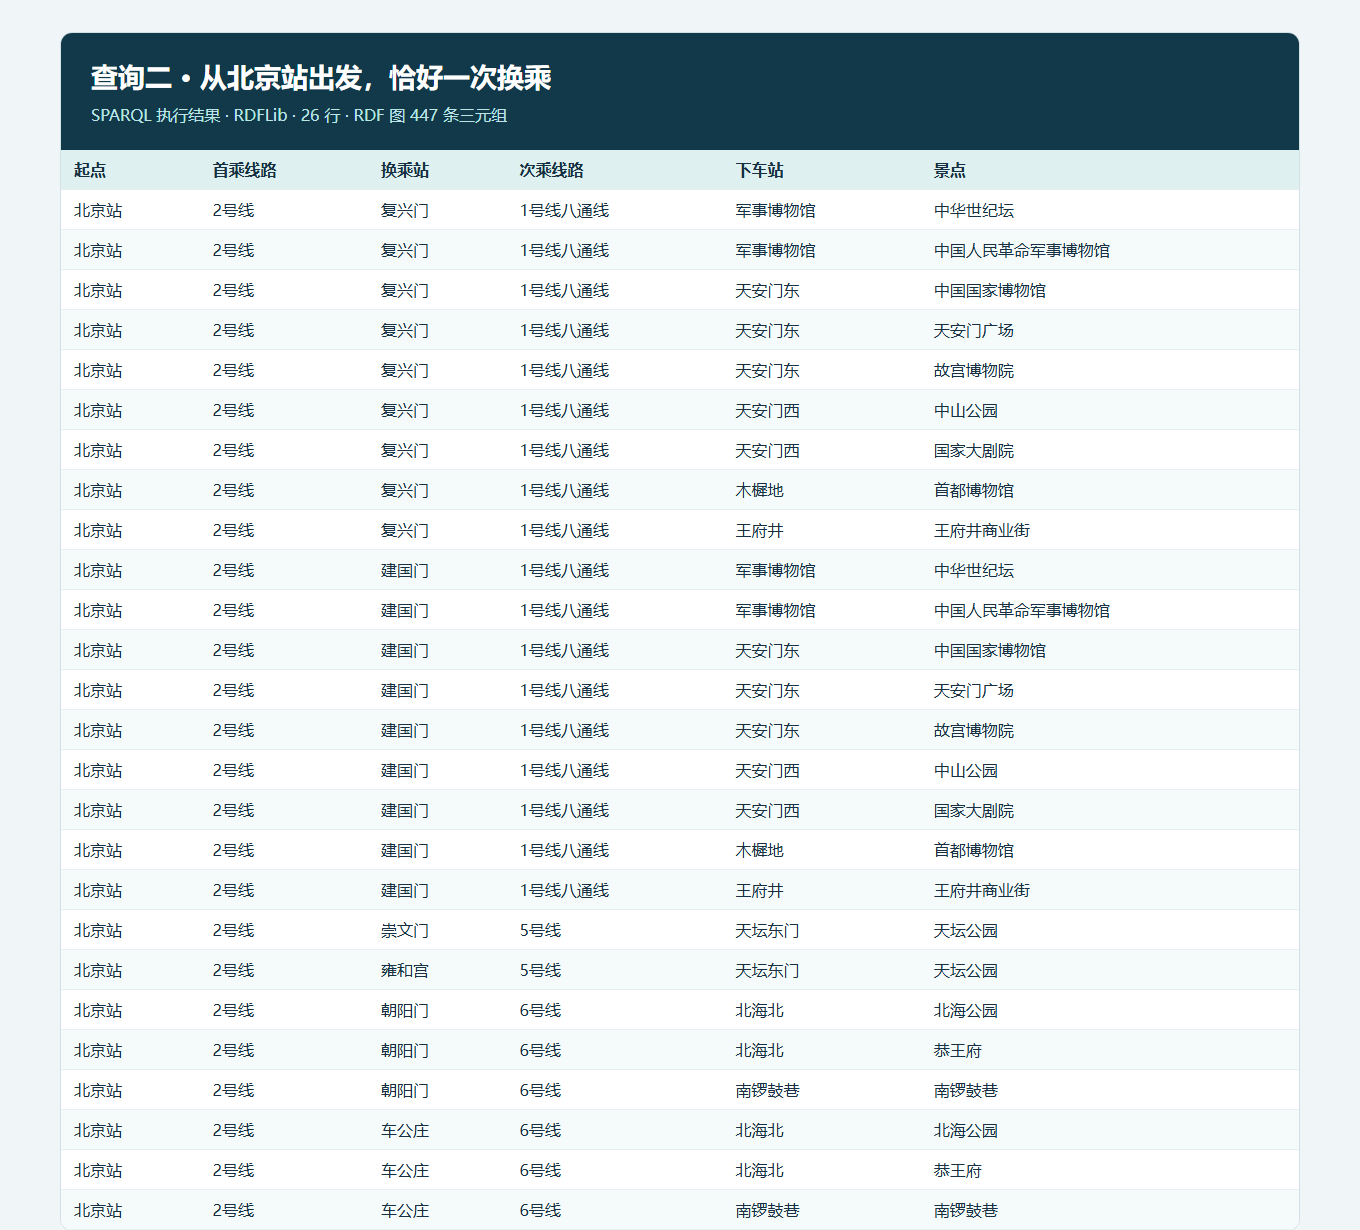
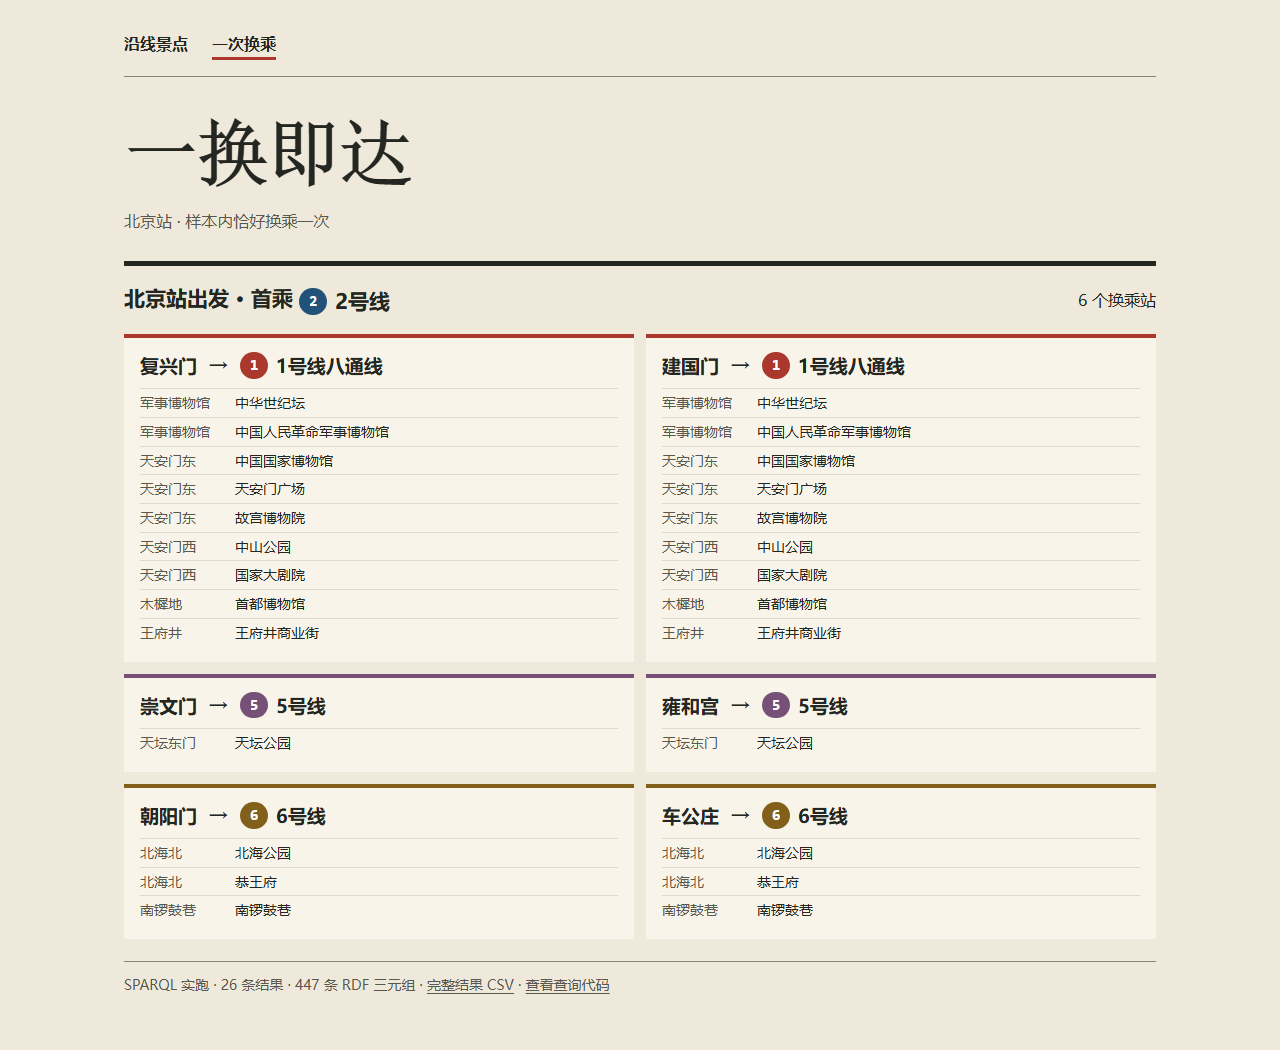
Restyle query results as subway wayfinding views

diff --git a/results/02-one-transfer.html b/results/02-one-transfer.html
@@ -1,14 +1,19 @@
-<!doctype html><html lang="zh-CN"><meta charset="utf-8">
-<title>查询二 · 从北京站出发，恰好一次换乘</title>
-<style>
-* {box-sizing:border-box} body {margin:0;background:#f0f5f7;color:#173043;
-font:16px 'Microsoft YaHei','Noto Sans SC',sans-serif}
-main {margin:32px auto;width:calc(100% - 80px);max-width:1240px;background:white;
-border:1px solid #d2e1e7;border-radius:12px;overflow:hidden}
-header {padding:25px 30px;background:#12394a;color:white} h1 {margin:0 0 10px;font-size:27px}
-header p {margin:0;color:#bce5e4} table {border-collapse:collapse;width:100%}
-th, td {padding:9px 13px;text-align:left;border-bottom:1px solid #e8eff1}
-th {background:#def0ef} tr:nth-child(even) {background:#f5fafb}
-</style><main><header><h1>查询二 · 从北京站出发，恰好一次换乘</h1><p>SPARQL 执行结果 · RDFLib ·
-26 行 · RDF 图 447 条三元组</p></header>
-<table><thead><tr><th>起点</th><th>首乘线路</th><th>换乘站</th><th>次乘线路</th><th>下车站</th><th>景点</th></tr></thead><tbody><tr><td>北京站</td><td>2号线</td><td>复兴门</td><td>1号线八通线</td><td>军事博物馆</td><td>中华世纪坛</td></tr><tr><td>北京站</td><td>2号线</td><td>复兴门</td><td>1号线八通线</td><td>军事博物馆</td><td>中国人民革命军事博物馆</td></tr><tr><td>北京站</td><td>2号线</td><td>复兴门</td><td>1号线八通线</td><td>天安门东</td><td>中国国家博物馆</td></tr><tr><td>北京站</td><td>2号线</td><td>复兴门</td><td>1号线八通线</td><td>天安门东</td><td>天安门广场</td></tr><tr><td>北京站</td><td>2号线</td><td>复兴门</td><td>1号线八通线</td><td>天安门东</td><td>故宫博物院</td></tr><tr><td>北京站</td><td>2号线</td><td>复兴门</td><td>1号线八通线</td><td>天安门西</td><td>中山公园</td></tr><tr><td>北京站</td><td>2号线</td><td>复兴门</td><td>1号线八通线</td><td>天安门西</td><td>国家大剧院</td></tr><tr><td>北京站</td><td>2号线</td><td>复兴门</td><td>1号线八通线</td><td>木樨地</td><td>首都博物馆</td></tr><tr><td>北京站</td><td>2号线</td><td>复兴门</td><td>1号线八通线</td><td>王府井</td><td>王府井商业街</td></tr><tr><td>北京站</td><td>2号线</td><td>建国门</td><td>1号线八通线</td><td>军事博物馆</td><td>中华世纪坛</td></tr><tr><td>北京站</td><td>2号线</td><td>建国门</td><td>1号线八通线</td><td>军事博物馆</td><td>中国人民革命军事博物馆</td></tr><tr><td>北京站</td><td>2号线</td><td>建国门</td><td>1号线八通线</td><td>天安门东</td><td>中国国家博物馆</td></tr><tr><td>北京站</td><td>2号线</td><td>建国门</td><td>1号线八通线</td><td>天安门东</td><td>天安门广场</td></tr><tr><td>北京站</td><td>2号线</td><td>建国门</td><td>1号线八通线</td><td>天安门东</td><td>故宫博物院</td></tr><tr><td>北京站</td><td>2号线</td><td>建国门</td><td>1号线八通线</td><td>天安门西</td><td>中山公园</td></tr><tr><td>北京站</td><td>2号线</td><td>建国门</td><td>1号线八通线</td><td>天安门西</td><td>国家大剧院</td></tr><tr><td>北京站</td><td>2号线</td><td>建国门</td><td>1号线八通线</td><td>木樨地</td><td>首都博物馆</td></tr><tr><td>北京站</td><td>2号线</td><td>建国门</td><td>1号线八通线</td><td>王府井</td><td>王府井商业街</td></tr><tr><td>北京站</td><td>2号线</td><td>崇文门</td><td>5号线</td><td>天坛东门</td><td>天坛公园</td></tr><tr><td>北京站</td><td>2号线</td><td>雍和宫</td><td>5号线</td><td>天坛东门</td><td>天坛公园</td></tr><tr><td>北京站</td><td>2号线</td><td>朝阳门</td><td>6号线</td><td>北海北</td><td>北海公园</td></tr><tr><td>北京站</td><td>2号线</td><td>朝阳门</td><td>6号线</td><td>北海北</td><td>恭王府</td></tr><tr><td>北京站</td><td>2号线</td><td>朝阳门</td><td>6号线</td><td>南锣鼓巷</td><td>南锣鼓巷</td></tr><tr><td>北京站</td><td>2号线</td><td>车公庄</td><td>6号线</td><td>北海北</td><td>北海公园</td></tr><tr><td>北京站</td><td>2号线</td><td>车公庄</td><td>6号线</td><td>北海北</td><td>恭王府</td></tr><tr><td>北京站</td><td>2号线</td><td>车公庄</td><td>6号线</td><td>南锣鼓巷</td><td>南锣鼓巷</td></tr></tbody></table></main></html>
+<!doctype html>
+<html lang="zh-CN">
+<head>
+<meta charset="utf-8">
+<meta name="viewport" content="width=device-width, initial-scale=1">
+<title>一换即达｜北京地铁景点导览</title>
+<link rel="stylesheet" href="metro.css">
+</head>
+<body><main>
+<nav aria-label="导览查询">
+<a href="01-line-attractions.html">沿线景点</a>
+<a href="02-one-transfer.html" aria-current="page">一次换乘</a>
+</nav>
+<header><h1>一换即达</h1><p class="meta">北京站 · 样本内恰好换乘一次</p></header>
+<div class="section-head"><h2>北京站出发 · 首乘 <span class="line-name"><span class="line line-2" aria-hidden="true">2</span>2号线</span></h2><span>6 个换乘站</span></div><div class="boards"><article class="board line-1"><h3>复兴门 <span aria-hidden="true">→</span><span class="line-name"><span class="line line-1" aria-hidden="true">1</span>1号线八通线</span></h3><ul class="destinations"><li><span class="arrival">军事博物馆</span><span>中华世纪坛</span></li><li><span class="arrival">军事博物馆</span><span>中国人民革命军事博物馆</span></li><li><span class="arrival">天安门东</span><span>中国国家博物馆</span></li><li><span class="arrival">天安门东</span><span>天安门广场</span></li><li><span class="arrival">天安门东</span><span>故宫博物院</span></li><li><span class="arrival">天安门西</span><span>中山公园</span></li><li><span class="arrival">天安门西</span><span>国家大剧院</span></li><li><span class="arrival">木樨地</span><span>首都博物馆</span></li><li><span class="arrival">王府井</span><span>王府井商业街</span></li></ul></article><article class="board line-1"><h3>建国门 <span aria-hidden="true">→</span><span class="line-name"><span class="line line-1" aria-hidden="true">1</span>1号线八通线</span></h3><ul class="destinations"><li><span class="arrival">军事博物馆</span><span>中华世纪坛</span></li><li><span class="arrival">军事博物馆</span><span>中国人民革命军事博物馆</span></li><li><span class="arrival">天安门东</span><span>中国国家博物馆</span></li><li><span class="arrival">天安门东</span><span>天安门广场</span></li><li><span class="arrival">天安门东</span><span>故宫博物院</span></li><li><span class="arrival">天安门西</span><span>中山公园</span></li><li><span class="arrival">天安门西</span><span>国家大剧院</span></li><li><span class="arrival">木樨地</span><span>首都博物馆</span></li><li><span class="arrival">王府井</span><span>王府井商业街</span></li></ul></article><article class="board line-5"><h3>崇文门 <span aria-hidden="true">→</span><span class="line-name"><span class="line line-5" aria-hidden="true">5</span>5号线</span></h3><ul class="destinations"><li><span class="arrival">天坛东门</span><span>天坛公园</span></li></ul></article><article class="board line-5"><h3>雍和宫 <span aria-hidden="true">→</span><span class="line-name"><span class="line line-5" aria-hidden="true">5</span>5号线</span></h3><ul class="destinations"><li><span class="arrival">天坛东门</span><span>天坛公园</span></li></ul></article><article class="board line-6"><h3>朝阳门 <span aria-hidden="true">→</span><span class="line-name"><span class="line line-6" aria-hidden="true">6</span>6号线</span></h3><ul class="destinations"><li><span class="arrival">北海北</span><span>北海公园</span></li><li><span class="arrival">北海北</span><span>恭王府</span></li><li><span class="arrival">南锣鼓巷</span><span>南锣鼓巷</span></li></ul></article><article class="board line-6"><h3>车公庄 <span aria-hidden="true">→</span><span class="line-name"><span class="line line-6" aria-hidden="true">6</span>6号线</span></h3><ul class="destinations"><li><span class="arrival">北海北</span><span>北海公园</span></li><li><span class="arrival">北海北</span><span>恭王府</span></li><li><span class="arrival">南锣鼓巷</span><span>南锣鼓巷</span></li></ul></article></div>
+<footer>SPARQL 实跑 · 26 条结果 · 447 条 RDF 三元组 ·
+<a href="02-one-transfer.csv">完整结果 CSV</a> ·
+<a href="../queries/02-one-transfer.rq">查看查询代码</a></footer>
+</main></body></html>

diff --git a/results/01-line-attractions.html b/results/01-line-attractions.html
@@ -1,14 +1,19 @@
-<!doctype html><html lang="zh-CN"><meta charset="utf-8">
-<title>查询一 · 1号线八通线景点索引</title>
-<style>
-* {box-sizing:border-box} body {margin:0;background:#f0f5f7;color:#173043;
-font:16px 'Microsoft YaHei','Noto Sans SC',sans-serif}
-main {margin:32px auto;width:calc(100% - 80px);max-width:1240px;background:white;
-border:1px solid #d2e1e7;border-radius:12px;overflow:hidden}
-header {padding:25px 30px;background:#12394a;color:white} h1 {margin:0 0 10px;font-size:27px}
-header p {margin:0;color:#bce5e4} table {border-collapse:collapse;width:100%}
-th, td {padding:9px 13px;text-align:left;border-bottom:1px solid #e8eff1}
-th {background:#def0ef} tr:nth-child(even) {background:#f5fafb}
-</style><main><header><h1>查询一 · 1号线八通线景点索引</h1><p>SPARQL 执行结果 · RDFLib ·
-10 行 · RDF 图 447 条三元组</p></header>
-<table><thead><tr><th>线路</th><th>下车站</th><th>景点</th></tr></thead><tbody><tr><td>1号线八通线</td><td>军事博物馆</td><td>中华世纪坛</td></tr><tr><td>1号线八通线</td><td>军事博物馆</td><td>中国人民革命军事博物馆</td></tr><tr><td>1号线八通线</td><td>天安门东</td><td>中国国家博物馆</td></tr><tr><td>1号线八通线</td><td>天安门东</td><td>天安门广场</td></tr><tr><td>1号线八通线</td><td>天安门东</td><td>故宫博物院</td></tr><tr><td>1号线八通线</td><td>天安门西</td><td>中山公园</td></tr><tr><td>1号线八通线</td><td>天安门西</td><td>国家大剧院</td></tr><tr><td>1号线八通线</td><td>建国门</td><td>北京古观象台</td></tr><tr><td>1号线八通线</td><td>木樨地</td><td>首都博物馆</td></tr><tr><td>1号线八通线</td><td>王府井</td><td>王府井商业街</td></tr></tbody></table></main></html>
+<!doctype html>
+<html lang="zh-CN">
+<head>
+<meta charset="utf-8">
+<meta name="viewport" content="width=device-width, initial-scale=1">
+<title>沿线寻景｜北京地铁景点导览</title>
+<link rel="stylesheet" href="metro.css">
+</head>
+<body><main>
+<nav aria-label="导览查询">
+<a href="01-line-attractions.html" aria-current="page">沿线景点</a>
+<a href="02-one-transfer.html">一次换乘</a>
+</nav>
+<header><h1>沿线寻景</h1><p class="meta">1号线八通线 · 景点与下车站</p></header>
+<div class="section-head"><h2><span class="line-name"><span class="line line-1" aria-hidden="true">1</span>1号线八通线</span></h2><span>沿线 6 个下车站</span></div><ol class="stations line-1"><li class="station"><strong>军事博物馆</strong><ul><li>中华世纪坛</li><li>中国人民革命军事博物馆</li></ul></li><li class="station"><strong>木樨地</strong><ul><li>首都博物馆</li></ul></li><li class="station"><strong>天安门西</strong><ul><li>中山公园</li><li>国家大剧院</li></ul></li><li class="station"><strong>天安门东</strong><ul><li>中国国家博物馆</li><li>天安门广场</li><li>故宫博物院</li></ul></li><li class="station"><strong>王府井</strong><ul><li>王府井商业街</li></ul></li><li class="station"><strong>建国门</strong><ul><li>北京古观象台</li></ul></li></ol>
+<footer>SPARQL 实跑 · 10 条结果 · 447 条 RDF 三元组 ·
+<a href="01-line-attractions.csv">完整结果 CSV</a> ·
+<a href="../queries/01-line-attractions.rq">查看查询代码</a></footer>
+</main></body></html>

diff --git a/results/metro.css b/results/metro.css
@@ -1,0 +1,44 @@
+* { box-sizing: border-box; }
+:root {
+  color: #232621;
+  background: #eee9db;
+  font-family: "Microsoft YaHei", "Noto Sans SC", sans-serif;
+  line-height: 1.55;
+}
+body { margin: 0; }
+main { max-width: 1160px; margin: 0 auto; padding: 32px clamp(18px, 5vw, 68px) 48px; }
+a { color: inherit; text-underline-offset: .22em; }
+a:focus-visible { outline: 3px solid #ae382d; outline-offset: 4px; }
+nav { display: flex; flex-wrap: wrap; gap: 12px 24px; padding-bottom: 16px; border-bottom: 1px solid #888578; }
+nav a { font-weight: 700; text-decoration: none; }
+nav a[aria-current] { border-bottom: 3px solid #ae382d; }
+header { padding: 36px 0 28px; border-bottom: 5px solid #232621; }
+header .meta { color: #59584e; margin: 0; }
+h1 { font-family: "Songti SC", SimSun, serif; font-size: clamp(34px, 6vw, 73px); line-height: 1.12; letter-spacing: -.04em; margin: 0 0 14px; }
+h2 { font-size: 21px; margin: 0; }
+p { margin: 0; }
+.line { background: var(--route); color: white; font: 700 15px/1.5 Consolas, monospace;
+  min-width: 28px; padding: 2px 6px; border-radius: 50px; text-align: center; display: inline-block; }
+.line-name { display: inline-flex; align-items: center; gap: 8px; }
+.line-1 { --route: #aa382d; }
+.line-2 { --route: #225279; }
+.line-5 { --route: #775078; }
+.line-6 { --route: #826019; }
+.section-head { display: flex; flex-wrap: wrap; align-items: center; justify-content: space-between; gap: 8px 20px; padding: 16px 0; }
+.stations { margin: 0 0 16px 13px; padding: 0; border-left: 5px solid var(--route); list-style: none; }
+.station { position: relative; padding: 11px 14px 11px 25px; border-bottom: 1px solid #d2cabb; display: grid; grid-template-columns: minmax(105px, 1fr) 3fr; gap: 8px 16px; }
+.station::before { content: ""; position: absolute; top: 17px; left: -10px; width: 9px; height: 9px; border: 3px solid var(--route); background: #eee9db; border-radius: 50%; }
+.station ul, .destinations { list-style: none; padding: 0; margin: 0; }
+.station ul { display: flex; flex-wrap: wrap; gap: 4px 24px; }
+.boards { display: grid; grid-template-columns: repeat(2, minmax(0, 1fr)); gap: 12px; }
+.board { background: #f8f4e9; border-top: 4px solid var(--route); padding: 13px 16px 15px; }
+.board h3 { margin: 0 0 8px; display: flex; flex-wrap: wrap; align-items: center; gap: 6px 12px; font-size: 19px; }
+.destinations li { display: grid; grid-template-columns: 85px 1fr; gap: 10px; padding: 3px 0; border-top: 1px solid #e1d9c9; font-size: 14px; }
+.arrival { color: #59584e; }
+footer { margin-top: 22px; padding-top: 12px; border-top: 1px solid #888578; color: #59584e; font-size: 14px; }
+@media (max-width: 650px) {
+  main { padding-top: 18px; }
+  header { padding: 24px 0 20px; }
+  .boards { grid-template-columns: 1fr; }
+  .station { grid-template-columns: 1fr; }
+}

diff --git a/report_ui.py b/report_ui.py
@@ -1,0 +1,75 @@
+"""Offline, transit-sign-inspired views of the executed SPARQL results."""
+
+from collections import defaultdict
+from html import escape
+
+
+def line_sign(name):
+    number = name.split("号", 1)[0]
+    return (f'<span class="line-name"><span class="line line-{escape(number)}" '
+            f'aria-hidden="true">{escape(number)}</span>{escape(name)}</span>')
+
+
+def line_index(rows, station_order):
+    by_station = defaultdict(list)
+    for _, station, attraction in rows:
+        by_station[station].append(attraction)
+    stops = []
+    for station in station_order:
+        if station in by_station:
+            places = "".join(f"<li>{escape(name)}</li>" for name in by_station[station])
+            stops.append(f'<li class="station"><strong>{escape(station)}</strong>'
+                         f'<ul>{places}</ul></li>')
+    return ('<div class="section-head"><h2>' + line_sign(rows[0][0]) +
+            f'</h2><span>沿线 {len(by_station)} 个下车站</span></div>'
+            '<ol class="stations line-1">' + "".join(stops) + "</ol>")
+
+
+def transfer_boards(rows):
+    by_transfer = defaultdict(list)
+    for _, _, transfer, second, arrival, attraction in rows:
+        by_transfer[transfer, second].append((arrival, attraction))
+    boards = []
+    for (transfer, second), places in by_transfer.items():
+        number = second.split("号", 1)[0]
+        destinations = "".join(
+            f'<li><span class="arrival">{escape(arrival)}</span>'
+            f'<span>{escape(attraction)}</span></li>'
+            for arrival, attraction in places
+        )
+        boards.append(f'<article class="board line-{escape(number)}">'
+                      f'<h3>{escape(transfer)} <span aria-hidden="true">→</span>'
+                      f'{line_sign(second)}</h3>'
+                      f'<ul class="destinations">{destinations}</ul></article>')
+    return ('<div class="section-head"><h2>北京站出发 · 首乘 ' +
+            line_sign(rows[0][1]) + f'</h2><span>{len(by_transfer)} 个换乘站</span></div>'
+            '<div class="boards">' + "".join(boards) + "</div>")
+
+
+def render_result(path, rows, graph_size, station_order):
+    index = path.stem == "01-line-attractions"
+    title = "沿线寻景" if index else "一换即达"
+    description = ("1号线八通线 · 景点与下车站" if index
+                   else "北京站 · 样本内恰好换乘一次")
+    first_current, second_current = (' aria-current="page"', "") if index else ("", ' aria-current="page"')
+    content = line_index(rows, station_order) if index else transfer_boards(rows)
+    path.write_text(f"""<!doctype html>
+<html lang="zh-CN">
+<head>
+<meta charset="utf-8">
+<meta name="viewport" content="width=device-width, initial-scale=1">
+<title>{title}｜北京地铁景点导览</title>
+<link rel="stylesheet" href="metro.css">
+</head>
+<body><main>
+<nav aria-label="导览查询">
+<a href="01-line-attractions.html"{first_current}>沿线景点</a>
+<a href="02-one-transfer.html"{second_current}>一次换乘</a>
+</nav>
+<header><h1>{title}</h1><p class="meta">{description}</p></header>
+{content}
+<footer>SPARQL 实跑 · {len(rows)} 条结果 · {graph_size} 条 RDF 三元组 ·
+<a href="{path.stem}.csv">完整结果 CSV</a> ·
+<a href="../queries/{path.stem}.rq">查看查询代码</a></footer>
+</main></body></html>
+""", encoding="utf-8")

diff --git a/run.py b/run.py
@@ -2,12 +2,13 @@
 
 import csv
 import json
-from html import escape
 from pathlib import Path
 from urllib.parse import quote
 
 from rdflib import Graph, Literal, Namespace, URIRef
 from rdflib.namespace import DCTERMS, OWL, RDF, RDFS, XSD
+
+from report_ui import render_result
 
 ROOT = Path(__file__).resolve().parent
 KG = Namespace("https://w3id.org/beijing-metro-course/schema/")
@@ -126,29 +127,6 @@ def validate_graph(graph):
     return {kind: len(items) for kind, items in entities.items()}, links
 
 
-def render_result(path, title, columns, rows, graph_size):
-    headings = "".join(f"<th>{escape(col)}</th>" for col in columns)
-    body = "".join(
-        "<tr>" + "".join(f"<td>{escape(cell)}</td>" for cell in row) + "</tr>"
-        for row in rows
-    )
-    path.write_text(f"""<!doctype html><html lang="zh-CN"><meta charset="utf-8">
-<title>{escape(title)}</title>
-<style>
-* {{box-sizing:border-box}} body {{margin:0;background:#f0f5f7;color:#173043;
-font:16px 'Microsoft YaHei','Noto Sans SC',sans-serif}}
-main {{margin:32px auto;width:calc(100% - 80px);max-width:1240px;background:white;
-border:1px solid #d2e1e7;border-radius:12px;overflow:hidden}}
-header {{padding:25px 30px;background:#12394a;color:white}} h1 {{margin:0 0 10px;font-size:27px}}
-header p {{margin:0;color:#bce5e4}} table {{border-collapse:collapse;width:100%}}
-th, td {{padding:9px 13px;text-align:left;border-bottom:1px solid #e8eff1}}
-th {{background:#def0ef}} tr:nth-child(even) {{background:#f5fafb}}
-</style><main><header><h1>{escape(title)}</h1><p>SPARQL 执行结果 · RDFLib ·
-{len(rows)} 行 · RDF 图 {graph_size} 条三元组</p></header>
-<table><thead><tr>{headings}</tr></thead><tbody>{body}</tbody></table></main></html>""",
-                    encoding="utf-8")
-
-
 def main():
     graph = build_graph()
     entities, links = validate_graph(graph)
@@ -159,13 +137,15 @@ def main():
     output.mkdir(exist_ok=True)
 
     specs = [
-        ("01-line-attractions", "查询一 · 1号线八通线景点索引",
+        ("01-line-attractions",
          ("线路", "下车站", "景点")),
-        ("02-one-transfer", "查询二 · 从北京站出发，恰好一次换乘",
+        ("02-one-transfer",
          ("起点", "首乘线路", "换乘站", "次乘线路", "下车站", "景点")),
     ]
     results = {}
-    for stem, title, columns in specs:
+    lines = json.loads((ROOT / 'data/lines.json').read_text(encoding='utf-8'))
+    station_order = next(sequence.split() for number, _, _, sequence in lines if number == '1')
+    for stem, columns in specs:
         query = (ROOT / f"queries/{stem}.rq").read_text(encoding="utf-8")
         rows = [tuple(map(str, row)) for row in reloaded.query(query)]
         results[stem] = rows
@@ -173,7 +153,7 @@ def main():
             writer = csv.writer(stream)
             writer.writerow(columns)
             writer.writerows(rows)
-        render_result(output / f"{stem}.html", title, columns, rows, len(reloaded))
+        render_result(output / f"{stem}.html", rows, len(reloaded), station_order)
         print(f"{stem}: {len(rows)} rows")
 
     first, second = results.values()

diff --git a/README.md b/README.md
@@ -10,6 +10,10 @@
 
 图谱有 **78 个领域实体**、**145 条去重业务关系**和 **447 条 RDF 三元组**。查询一返回 10 行，查询二返回 26 个换乘方案，覆盖 13 个景点。结果目录同时提供 CSV、可打开的 HTML 表格和 PNG 截图。
 
+## 离线导览
+
+打开[沿线景点](results/01-line-attractions.html)或[一次换乘](results/02-one-transfer.html)即可查看，页面之间可以互相切换。离线打开时请保留 results 目录结构。
+
 ## 复现
 
 在项目目录下执行以下命令。脚本读取 data 下的源表，生成并重新解析 RDF/XML，对读取后的 RDF 执行 queries 下的查询，更新结果表格。
